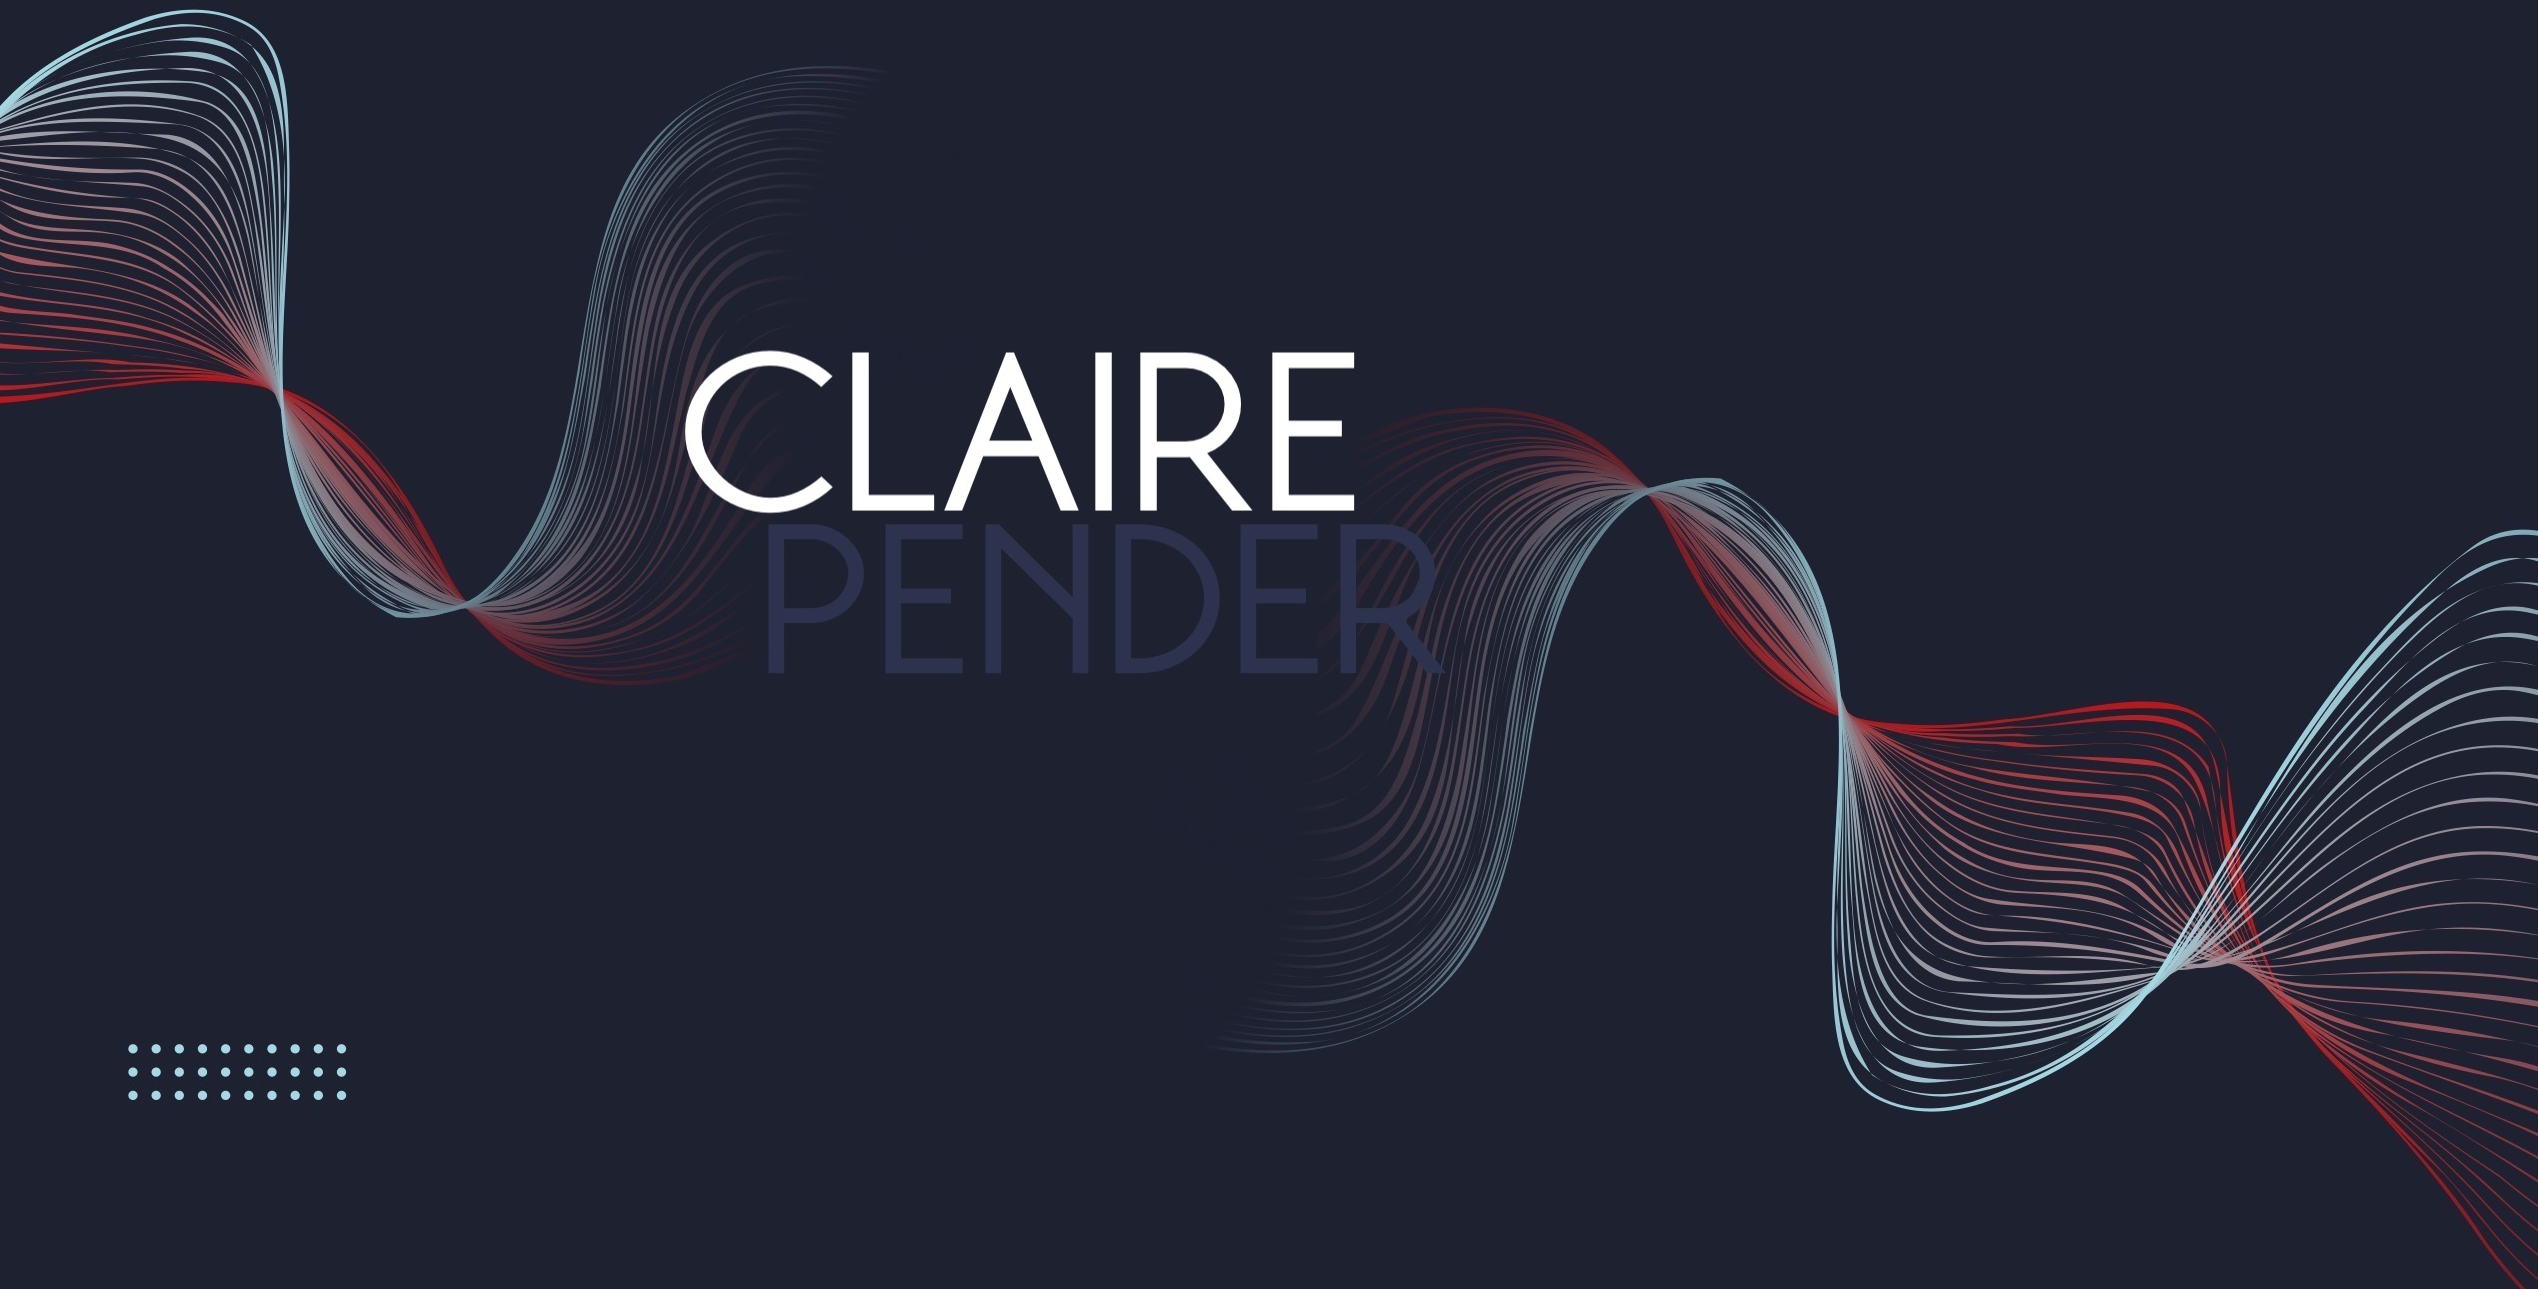
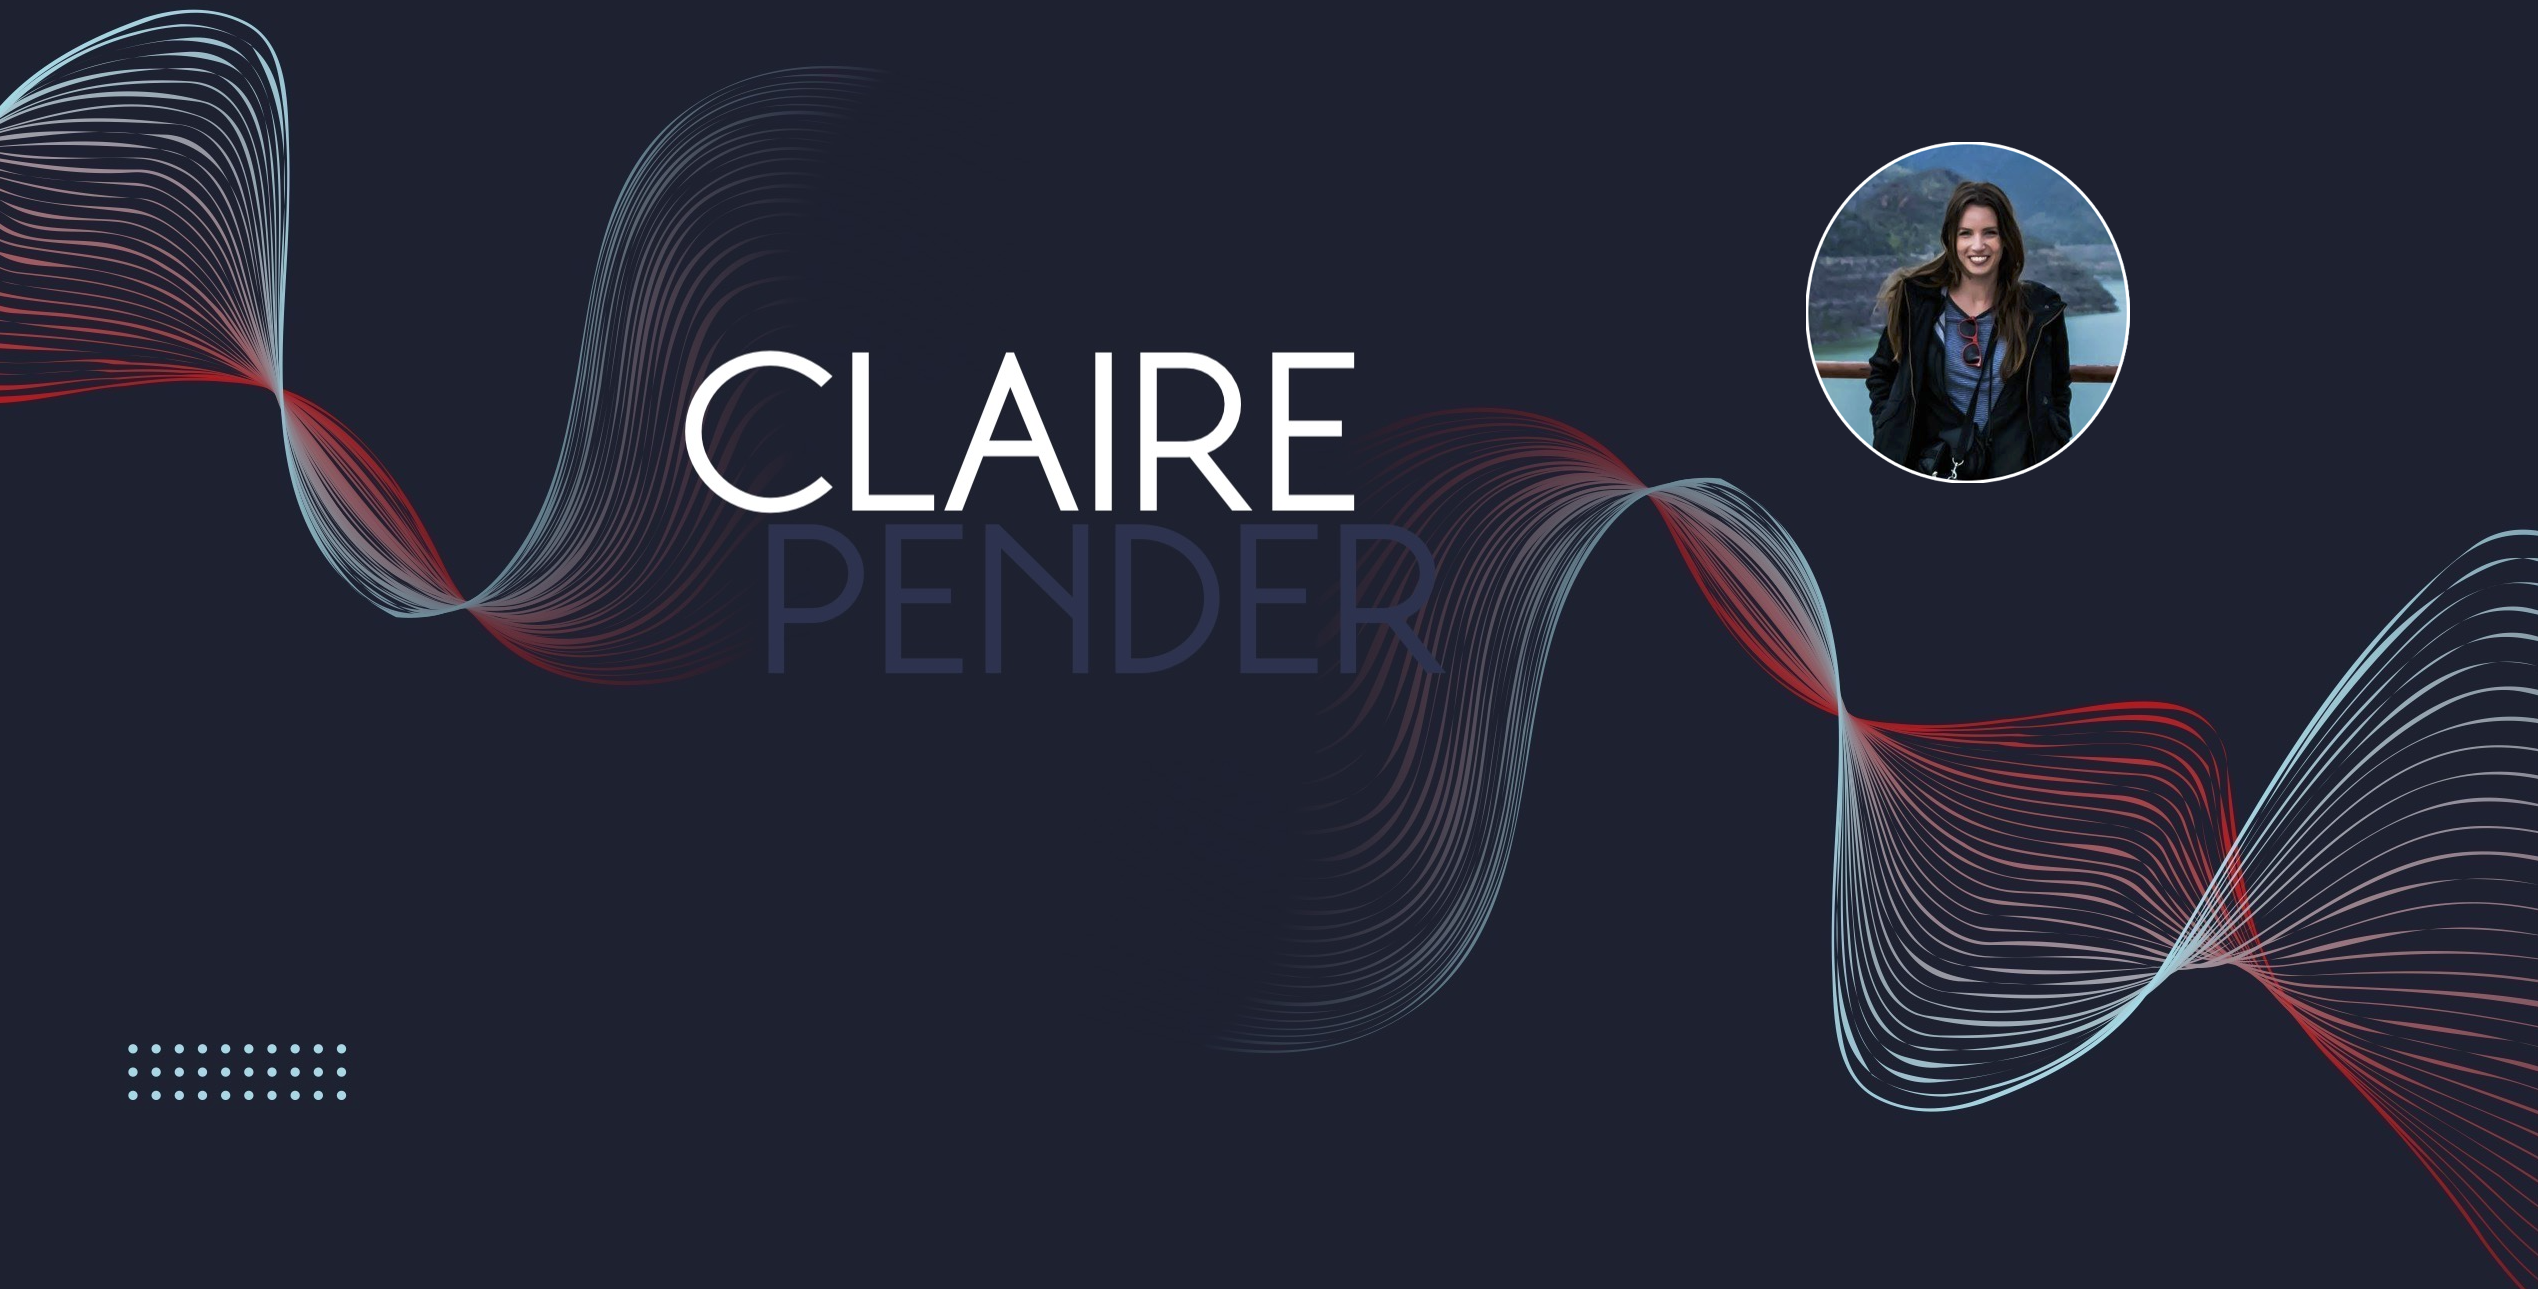
styling, positioning, edited about and tech components

Changed region(s): [[0.6848, 0.0931, 0.8404, 0.3724]]

diff --git a/src/components/Tech.js b/src/components/Tech.js
@@ -5,9 +5,9 @@ const Tech = () => {
     return(
         <div className="container">
        
-              
-        <div className="card bg-muted text-dark w-50">
-                <div className="card-body bg-muted text-dark">
+      
+        <div className="card w-50">
+                <div className="card-body ">
                     <h5 className="card-title text-center p-2">The Stack:</h5>
 
                   <div className="container-icons">
@@ -46,18 +46,13 @@ const Tech = () => {
                         </div>
 
                         <div class="box-icon">
-                        <img src="https://cdn.jsdelivr.net/gh/devicons/devicon/icons/express/express-original.svg" width="100" height="100"/>
+                        <img src="https://cdn.jsdelivr.net/gh/devicons/devicon/icons/express/express-original.svg" width="90" height="100"/>
                             <p>Express</p>
                         </div>
 
                         <div class="box-icon">
                         <img src="https://cdn.jsdelivr.net/gh/devicons/devicon/icons/webpack/webpack-original.svg" width="100" height="100"/>
                             <p>Webpack</p>
-                        </div>
-                        
-                        <div class="box-icon">
-                        <img src="https://cdn.jsdelivr.net/gh/devicons/devicon/icons/npm/npm-original-wordmark.svg" width="100" height="100"/>
-                            <p>npm</p>
                         </div>
                         
                         <div class="box-icon">
@@ -68,17 +63,27 @@ const Tech = () => {
                         <div class="box-icon">
                         <img src="https://cdn.jsdelivr.net/gh/devicons/devicon/icons/bootstrap/bootstrap-original.svg" width="100" height="100"/>
                         <p>Bootstrap</p>
-                    </div>
+                        </div>
+
+                        <div class="box-icon">
+                        <img src="https://cdn.jsdelivr.net/gh/devicons/devicon/icons/npm/npm-original-wordmark.svg" width="100" height="100"/>
+                            <p>npm</p>
+                        </div>
+                        
+                        
+
+                       
 
                     {/* <div class="box-icon">
                         
                         <p></p>
                     </div> */}
 
-                    </div>
+                     </div>
+                       
                 </div>
-  
-                <h5 className="card-title text-center p-2">Learning Now:</h5>
+{/*   
+                <h5 className="card-title text-center p-2">Coming Soon:</h5>
 
                 <div className="container-icons">
                     <div class="box-icon">
@@ -103,7 +108,7 @@ const Tech = () => {
                         </div>
 
 
-                </div>
+                </div> */}
 
           </div>
 

diff --git a/src/components/About.js b/src/components/About.js
@@ -7,13 +7,16 @@ const About = () => {
         <div className="container">
        
               
-        <div className="card bg-muted text-dark w-50">
-                <div className="card-body bg-muted text-dark">
+        <div className="card w-50">
+                <div className="card-body">
                     <h5 className="card-title text-center p-3">Who is she?</h5>
-                    <p className="card-text">Nice to meet you! Much like a fullstack application, I am a multi-layered human being.</p>
+                    <p className="card-text">Much like a fullstack application, I am a multi-layered human being.</p>
                     <p>On the front end, I'm a fullstack engineer with a knack for design and application development.</p>
                     <p>On the back end, I'm a mom, jazz musician, artist, photographer, scientist, avid runner, and overall nerd. I studied psychology and music at Texas Tech, and then received my second degree at Texas State in biology and biochemistry.</p>
-                    <p>At first glance it may seem that my experience and studies are irrelevant to programming, but there are some powerful intersections between technology, art, psychology and medical science that I am really excited to be a part of. That being said, there's a whole lot that I want to accomplish as an engineer; my goals include expanding on my current knowledge as a developer and forging a path into AI, ML and data science.</p>
+                    <p>At first glance it may seem that my experience and studies are irrelevant to programming, but there are some powerful intersections between technology, art, psychology and medical science that I am really excited to be a part of. 
+                        That being said, there's a whole lot that I want to accomplish as an engineer; 
+                        my goals are to expand on my current knowledge as a developer and, eventually, forge a path into AI, ML and data science.
+                        </p>
                 
                 </div>
 

diff --git a/src/index.js b/src/index.js
@@ -1,30 +1,25 @@
 import React from 'react';
 import ReactDOM from 'react-dom';
 import { BrowserRouter as Router, Route } from 'react-router-dom';
-import { NavBar, Home, Tech, About, Contact } from './components/comp_index';
+import { NavBar, Home, Tech, Projects, About, Contact } from './components/comp_index';
 
 
 const App = () => {
 
     return(
         <>
+        
+        
         <Router>
         
-            <img src={require('./images/chilecrop.jpg')} className="thumbnail rounded-circle" alt="..." />
 
-        {/* <img src={require('./images/chilecrop.jpg')} className="thumbnail rounded-circle" alt="..." /> */}
-                {/* <div className="intro text-center position-absolute top-0 start-50 p-5 translate-middle"> */}
-                    {/* <h1 className="font-assistant-title">Hey, I'm Claire</h1> */}
-                       
-                {/* </div> */}
-
-                <NavBar />
+        <NavBar />
                
            
         <Route path="/" render={(routeProps) => <Home {...routeProps} />} />
         <Route path="/home" render={(routeProps) => <Home {...routeProps} />} />
-        
         <Route path="/tech" render={(routeProps) => <Tech {...routeProps} />} />
+        <Route path="/projects" render={(routeProps) => <Projects {...routeProps} />} />
         <Route path="/about" render={(routeProps) => <About {...routeProps} />} />
         <Route path="/contact" render={(routeProps) => <Contact {...routeProps} />} />
 

diff --git a/src/components/Contact.js b/src/components/Contact.js
@@ -6,21 +6,22 @@ const Contact = () => {
     return(
         
         <div className="container">
-        <div className="card bg-muted text-dark position-absolute top-50 start-50 translate-middle font-assistant w-75">
+       
               
-                  <div className="card-body bg-muted text-dark">
-                              <h5 className="card-title text-center">Contact Me</h5>
-                              <p className="card-text">Some quick example text to build on the card title and make up the bulk of the card's content.</p>
-                          </div>
-              
-                      
-                      <div className="card-body">
-                          <a href="#" className="card-link">Card link</a>
-                          <a href="#" className="card-link">Another link</a>
-                      </div>
-      
-              </div>
+        <div className="card bg-muted text-dark w-50">
+                <div className="card-body bg-muted text-dark">
+                    <h5 className="card-title text-center p-3">Contact Me</h5>
+                    <p className="card-text"> </p>
+                    
+                
+                </div>
+
+          
+                  
+                 
+  
           </div>
+      </div>
  
     )
 }

diff --git a/public/style.css b/public/style.css
@@ -76,7 +76,7 @@ body {
     font-weight: normal;
     font-style: normal;
     color:white;
-    position: absolute;
+    position: fixed;
     top: 61vh;
     left: 35vw;
 }
@@ -88,7 +88,9 @@ body {
     font-size: 18px;
 } */
 
-
+.nav{
+    position: fixed;
+}
 
 .nav a{
     font-family: 'Raleway', sans-serif;
@@ -97,7 +99,7 @@ body {
     font-size: 20px;
     color: white;
     position: relative;
-    top: 50vh;
+    top: 40vh;
     left: 5vw;
     /* left: 30vw; */
    
@@ -120,31 +122,26 @@ body {
 }
 
 .card{
+    background-color: #161B2D;
     font-family: 'Raleway', sans-serif;
-    top: 42vh;
-    left: 27vw;
-    opacity: 80%;
+    color: white;
+    top: 70vh;
+    left: 20vw;
+    opacity: 95%;
     box-shadow: 2px 2px 3px black;
 }
 
 .card-title{
     font-size: 30px;
+    color: white;
 }
 
 .card-body{
-    border: 2px solid white;
+    background-color: #161B2D;
+    /* border: 2px solid white; */
     font-size: 20px;
 }
 
-.thumbnail{
-    height: 170px;
-    width: auto;
-    position: absolute;
-    top: 10vh;
-    right: 10vw;
-    border: 2px solid white;
-    box-shadow: 2px 2px 3px black;
-}
 
 .container-icons {
     text-align: center;

diff --git a/src/components/Projects.js b/src/components/Projects.js
@@ -1,0 +1,28 @@
+import React from 'react';
+
+const Projects = () => {
+
+
+    return(
+        
+        <div className="container">
+       
+              
+        <div className="card w-50">
+                <div className="card-body">
+                    <h5 className="card-title text-center p-3">My Projects</h5>
+                    
+                
+                </div>
+
+          
+                  
+                 
+  
+          </div>
+      </div>
+ 
+    )
+}
+
+export default Projects;

diff --git a/src/components/navbar.js b/src/components/navbar.js
@@ -12,6 +12,7 @@ const NavBar = () => {
     <Link className="nav-link" to="/home">home</Link>
     <Link className="nav-link" to="/about">about</Link>
     <Link className="nav-link" to="/tech">tech</Link>
+    <Link className="nav-link" to="/projects">projects</Link>
     <Link className="nav-link" to="/contact">contact me</Link>
 </nav>
 

diff --git a/src/components/comp_index.js b/src/components/comp_index.js
@@ -3,9 +3,11 @@ import Tech from './Tech';
 import About from './About';
 import Contact from './Contact';
 import Home from './Home';
+import Projects from './Projects';
 
 export { NavBar };
 export { Tech };
 export { About };
 export { Contact };
 export { Home };
+export { Projects };
